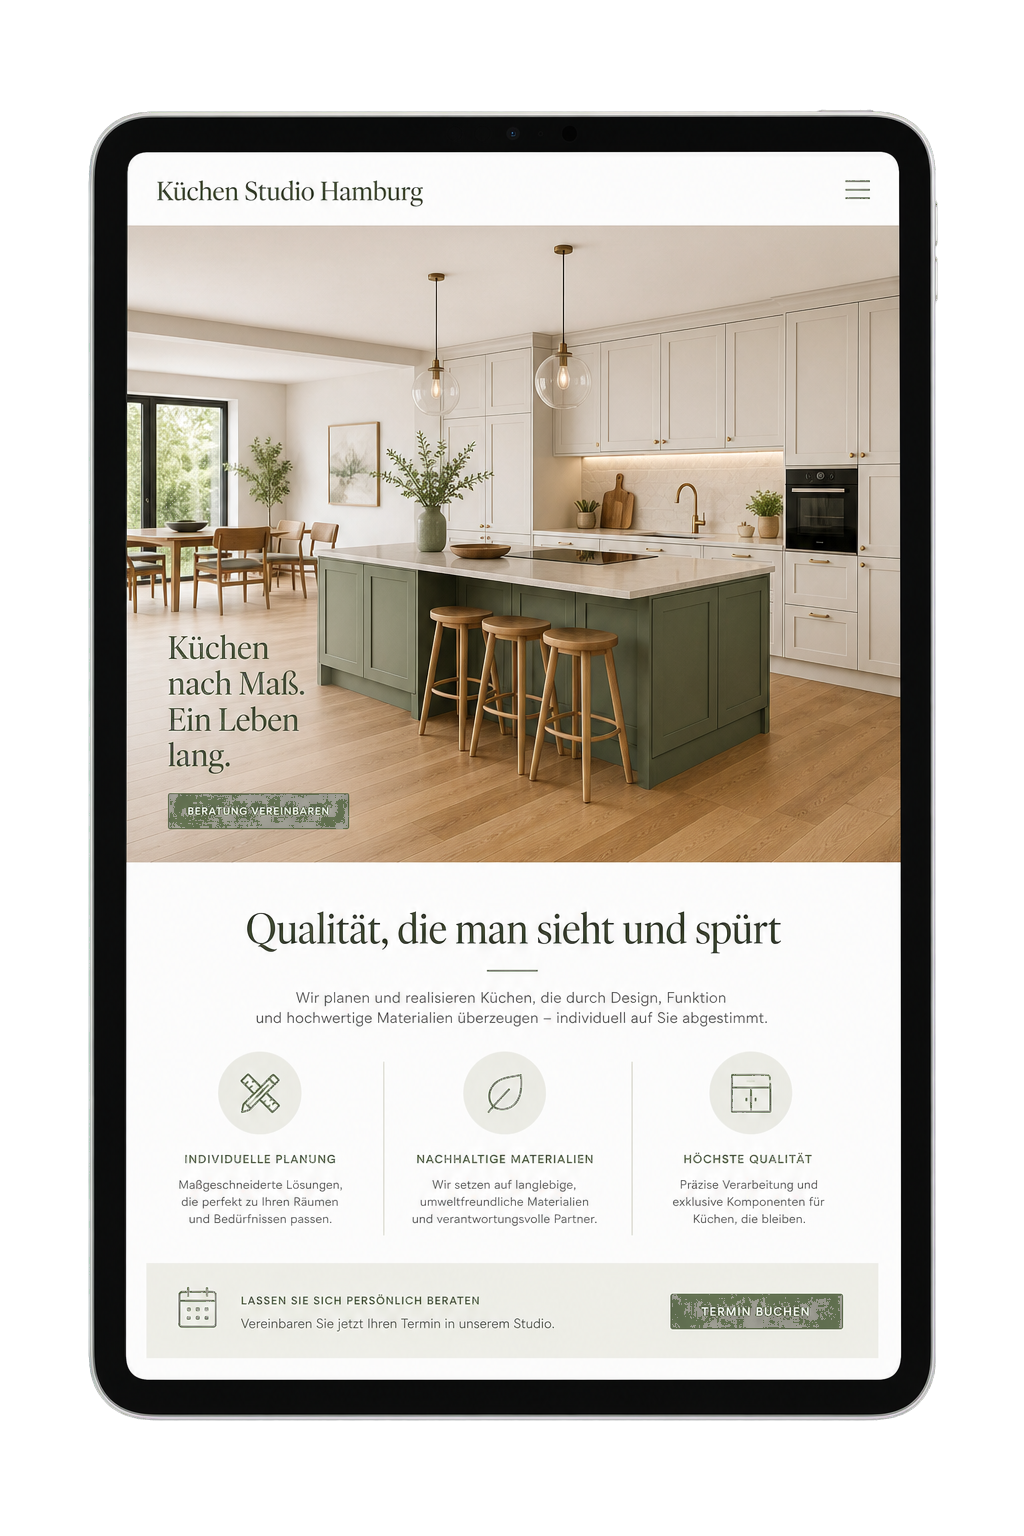
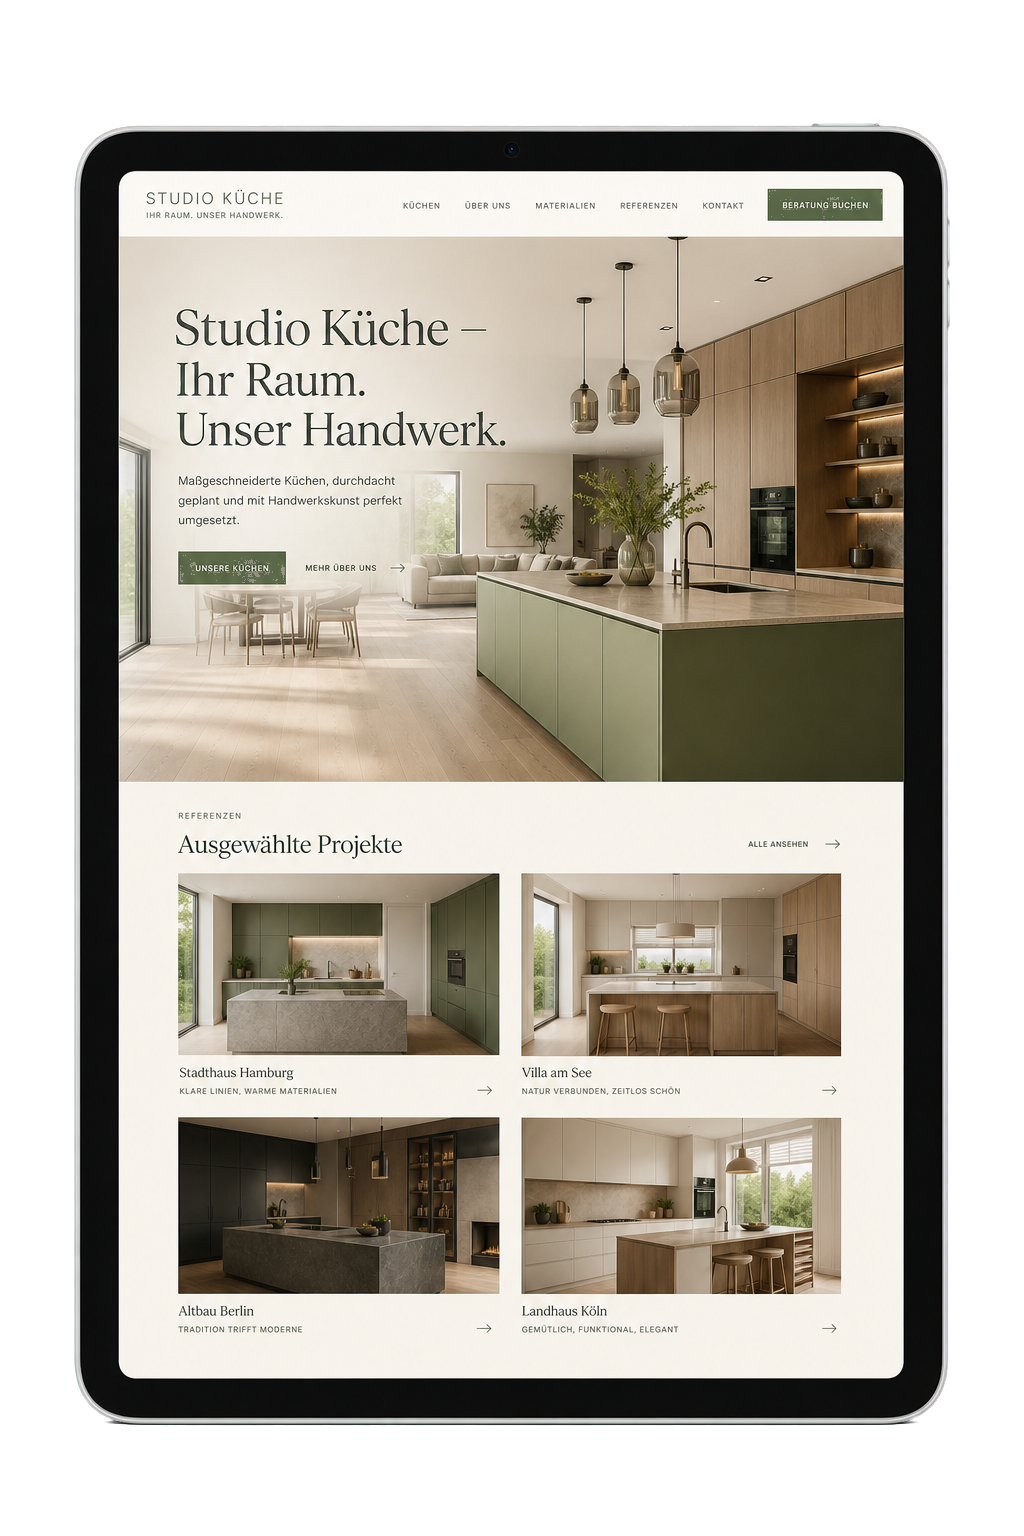
feat: add 3-device hero, team section, testimonials, case slider + new iPad mockups
- Hero: laptop + tablet + phone device layout
- Team: 6 members with Unser Team heading
- Testimonials: updated 4 attribution names/locations
- Beispiele: autoplay 3-slide case slider with benefits
- iPad images: AI-generated with transparent backgrounds (kitchen themes)

diff --git a/index.html b/index.html
@@ -96,6 +96,36 @@
     .sw-team-placeholder{background:#f5ede6;display:block;}
     .sw-team-card strong{font-size:15px;font-weight:700;color:var(--ink);display:block;}
     .sw-team-card span{font-size:13px;color:var(--muted);}
+    /* ===== HERO TABLET DEVICE ===== */
+    .device-tablet{position:absolute;right:-6%;bottom:-10%;width:36%;border:8px solid #16110c;border-radius:20px;background:#16110c;box-shadow:0 30px 54px -22px rgba(40,24,12,.5);z-index:2;}
+    .device-tablet .screen{display:block;width:100%;height:auto;border-radius:12px;}
+    @media(max-width:560px){.device-tablet{right:-4%;width:38%;}}
+    /* ===== CASE SLIDER ===== */
+    .case-slider{position:relative;overflow:hidden;border-radius:24px;background:var(--card);border:1px solid var(--line);}
+    .case-track{display:flex;transition:transform .5s cubic-bezier(.22,1,.36,1);}
+    .case-slide{min-width:100%;display:grid;grid-template-columns:1fr 1fr;gap:48px;align-items:center;padding:48px;}
+    @media(max-width:820px){.case-slide{grid-template-columns:1fr;padding:32px 24px;}}
+    .case-slide-img{position:relative;aspect-ratio:4/3;overflow:visible;}
+    .case-slide-img .device-laptop{max-width:88%;}
+    .case-slide-img .device-phone{left:auto;right:-4%;bottom:-8%;width:28%;}
+    .case-slide-body{display:flex;flex-direction:column;gap:18px;}
+    .case-slide-body h3{font-size:22px;font-weight:700;color:var(--ink);margin:0;}
+    .case-detail{display:flex;gap:14px;align-items:flex-start;}
+    .case-detail-icon{width:40px;height:40px;flex-shrink:0;display:flex;align-items:center;justify-content:center;background:var(--green-soft);border-radius:12px;color:var(--green);}
+    .case-detail-icon svg{width:20px;height:20px;}
+    .case-detail div b{display:block;font-size:14px;font-weight:700;color:var(--ink);margin-bottom:2px;}
+    .case-detail div p{font-size:13.5px;line-height:1.6;color:var(--ink-2);margin:0;}
+    .case-dots{display:flex;justify-content:center;gap:10px;margin-top:32px;}
+    .case-dot{width:10px;height:10px;border-radius:50%;background:var(--line);border:none;cursor:pointer;transition:background .3s,transform .3s;padding:0;}
+    .case-dot.active{background:var(--green);transform:scale(1.25);}
+    .case-benefits{display:grid;grid-template-columns:repeat(3,1fr);gap:20px;margin-top:36px;}
+    @media(max-width:680px){.case-benefits{grid-template-columns:1fr;}}
+    .case-benefit{display:flex;align-items:flex-start;gap:14px;padding:20px;background:var(--card);border:1px solid var(--line);border-radius:16px;}
+    .case-benefit-icon{width:44px;height:44px;flex-shrink:0;display:flex;align-items:center;justify-content:center;background:var(--green-soft);border-radius:12px;color:var(--green);}
+    .case-benefit-icon svg{width:22px;height:22px;}
+    .case-benefit div h4{font-size:15px;font-weight:700;color:var(--ink);margin:0 0 4px;}
+    .case-benefit div p{font-size:13px;color:var(--muted);margin:0;line-height:1.5;}
+    .case-note{text-align:center;font-size:13px;color:var(--muted);margin-top:24px;font-style:italic;}
 </style>
   <meta name="robots" content="index, follow, max-image-preview:large, max-snippet:-1, max-video-preview:-1" />
   <script type="application/ld+json">
@@ -255,6 +285,7 @@
             <div class="mockup-wrap">
               <div class="mockup" aria-label="Beispiel einer Küchenstudio-Website">
                 <div class="device-laptop"><img class="screen" src="assets/shot-laptop.png" alt="Beispiel Küchenstudio-Website auf dem Laptop" width="1600" height="1000" loading="lazy" decoding="async" /></div>
+                <div class="device-tablet"><img class="screen" src="assets/shot-laptop.png" alt="Beispiel Küchenstudio-Website auf dem Tablet" width="1600" height="1000" loading="lazy" decoding="async" /></div>
                 <div class="device-phone"><img class="screen" src="assets/shot-phone.png" alt="Beispiel Küchenstudio-Website auf dem Smartphone" width="430" height="932" loading="lazy" decoding="async" /></div>
               </div>
             </div>
@@ -454,47 +485,131 @@
       </div>
     </section>
 
-    <!-- ============ CASE / BEISPIEL ============ -->
+    <!-- ============ CASE / BEISPIEL (SLIDER) ============ -->
     <section class="section white-bg" id="beispiel" data-screen-label="07 Beispiel">
       <div class="container">
         <div class="section-head">
-          <span class="eyebrow reveal">Beispiele</span>
-          <h2 class="h-section reveal d1">Wie eine starke Website Küchenstudios unterstützt</h2>
+          <span class="eyebrow reveal">Fiktives Beispiel</span>
+          <h2 class="h-section reveal d1">Wie eine moderne Website Küchenstudios unterstützt</h2>
+          <p class="lead reveal d2">Praxisnahes Konzeptbeispiel &#8212; mit klarer Positionierung, schöner Website und realistischer Struktur.</p>
         </div>
 
-        <div class="case-card reveal d2">
-          <div class="case-head">
-            <div>
-              <span class="case-tag">Beispiel · Mittleres bis gehobenes Segment</span>
-              <h3>Küchenstudio mit Schwerpunkt hochwertige Einbauküchen</h3>
-              <div class="case-row">
-                <p><b>Ausgangssituation:</b> Website seit mehreren Jahren unverändert, kaum Struktur — starke Referenzen wurden online kaum gezeigt.</p>
-                <p><b>Ziel:</b> Moderner Auftritt, klare Darstellung von Marken, Referenzen und Services sowie Entlastung des Teams bei Standardfragen.</p>
+        <div class="case-slider reveal d2" id="caseSlider">
+          <div class="case-track" id="caseTrack">
+
+            <!-- Slide 1: Moderne Küche -->
+            <div class="case-slide">
+              <div class="case-slide-img">
+                <div class="device-laptop"><img class="screen" src="assets/shot-laptop.png" alt="Moderne Küche Website" width="1600" height="1000" loading="lazy" decoding="async" /></div>
+                <div class="device-phone"><img class="screen" src="assets/shot-phone.png" alt="Moderne Küche mobil" width="430" height="932" loading="lazy" decoding="async" /></div>
+              </div>
+              <div class="case-slide-body">
+                <h3>Moderne Einbauküchen</h3>
+                <div class="case-detail">
+                  <div class="case-detail-icon"><svg viewBox="0 0 24 24" fill="none" stroke="currentColor" stroke-width="2" stroke-linecap="round" stroke-linejoin="round"><circle cx="11" cy="11" r="8"/><path d="m21 21-4.3-4.3"/></svg></div>
+                  <div><b>Ausgangssituation:</b><p>Die bisherige Website wirkte veraltet, hochwertige Referenzen und Markenpartner wurden online kaum gezeigt.</p></div>
+                </div>
+                <div class="case-detail">
+                  <div class="case-detail-icon"><svg viewBox="0 0 24 24" fill="none" stroke="currentColor" stroke-width="2" stroke-linecap="round" stroke-linejoin="round"><circle cx="12" cy="12" r="10"/><circle cx="12" cy="12" r="6"/><circle cx="12" cy="12" r="2"/></svg></div>
+                  <div><b>Ziel:</b><p>Ein moderner Auftritt, der Qualität und Beratungskompetenz auf den ersten Blick vermittelt.</p></div>
+                </div>
+                <div class="case-detail">
+                  <div class="case-detail-icon"><svg viewBox="0 0 24 24" fill="none" stroke="currentColor" stroke-width="2" stroke-linecap="round" stroke-linejoin="round"><rect x="3" y="3" width="18" height="18" rx="2"/><path d="M3 9h18"/><path d="M9 21V9"/></svg></div>
+                  <div><b>Umsetzung:</b><p>Neue Startseite mit klarem Einstieg, Unterseiten für Marken und Stilwelten, strukturierte Infos zu Beratung, Planung und Montage.</p></div>
+                </div>
+                <div class="case-detail">
+                  <div class="case-detail-icon"><svg viewBox="0 0 24 24" fill="none" stroke="currentColor" stroke-width="2" stroke-linecap="round" stroke-linejoin="round"><path d="M22 11.08V12a10 10 0 1 1-5.93-9.14"/><polyline points="22 4 12 14.01 9 11.01"/></svg></div>
+                  <div><b>Ergebnis:</b><p>Deutlich professionellerer Außenauftritt, mehr passende Anfragen mit realistischem Budget und weniger Rückfragen.</p></div>
+                </div>
+                <a href="#kontakt" class="btn" style="align-self:flex-start;margin-top:8px;"><span class="btn-label">Erstgespräch sichern</span>
+                  <svg viewBox="0 0 24 24" fill="none" stroke="currentColor" stroke-width="2.2" stroke-linecap="round" stroke-linejoin="round"><path d="M5 12h14M13 5l7 7-7 7"></path></svg>
+                </a>
               </div>
             </div>
-            <div class="case-row">
-              <p><b>Umsetzung mit Seitenwerk.de:</b> Neue Startseite mit klarem Einstieg, Unterseiten für Marken und Stilwelten, strukturierte Infos zu Beratung, Planung, Montage und Service.</p>
-              <p><b>Ergebnis:</b> Deutlich professionellerer Außenauftritt, mehr passende Anfragen mit realistischem Budget und weniger Rückfragen am Telefon.</p>
-              <a href="#kontakt" class="btn mt-cta"><span class="btn-label">Erstgespräch sichern</span>
-                <svg viewBox="0 0 24 24" fill="none" stroke="currentColor" stroke-width="2.2" stroke-linecap="round" stroke-linejoin="round"><path d="M5 12h14M13 5l7 7-7 7"></path></svg>
-              </a>
+
+            <!-- Slide 2: Landhausküche -->
+            <div class="case-slide">
+              <div class="case-slide-img">
+                <div class="device-laptop"><img class="screen" src="assets/shot-laptop.png" alt="Landhausküche Website" width="1600" height="1000" loading="lazy" decoding="async" /></div>
+                <div class="device-phone"><img class="screen" src="assets/shot-phone.png" alt="Landhausküche mobil" width="430" height="932" loading="lazy" decoding="async" /></div>
+              </div>
+              <div class="case-slide-body">
+                <h3>Landhausküchen &amp; Klassik</h3>
+                <div class="case-detail">
+                  <div class="case-detail-icon"><svg viewBox="0 0 24 24" fill="none" stroke="currentColor" stroke-width="2" stroke-linecap="round" stroke-linejoin="round"><circle cx="11" cy="11" r="8"/><path d="m21 21-4.3-4.3"/></svg></div>
+                  <div><b>Ausgangssituation:</b><p>Der Landhaus-Stil war online nicht erkennbar — die Website passte nicht zur Atmosphäre des Showrooms.</p></div>
+                </div>
+                <div class="case-detail">
+                  <div class="case-detail-icon"><svg viewBox="0 0 24 24" fill="none" stroke="currentColor" stroke-width="2" stroke-linecap="round" stroke-linejoin="round"><circle cx="12" cy="12" r="10"/><circle cx="12" cy="12" r="6"/><circle cx="12" cy="12" r="2"/></svg></div>
+                  <div><b>Ziel:</b><p>Eine Website, die die warme Landhaus-Atmosphäre transportiert und Kunden mit passendem Geschmack anspricht.</p></div>
+                </div>
+                <div class="case-detail">
+                  <div class="case-detail-icon"><svg viewBox="0 0 24 24" fill="none" stroke="currentColor" stroke-width="2" stroke-linecap="round" stroke-linejoin="round"><rect x="3" y="3" width="18" height="18" rx="2"/><path d="M3 9h18"/><path d="M9 21V9"/></svg></div>
+                  <div><b>Umsetzung:</b><p>Bildstarke Startseite mit Showroom-Galerie, Materialwelten-Seite, persönliche Beratungsgeschichte und Anfahrtsinfos.</p></div>
+                </div>
+                <div class="case-detail">
+                  <div class="case-detail-icon"><svg viewBox="0 0 24 24" fill="none" stroke="currentColor" stroke-width="2" stroke-linecap="round" stroke-linejoin="round"><path d="M22 11.08V12a10 10 0 1 1-5.93-9.14"/><polyline points="22 4 12 14.01 9 11.01"/></svg></div>
+                  <div><b>Ergebnis:</b><p>Mehr qualifizierte Beratungstermine, bessere Vorab-Information und spürbar weniger Standardfragen.</p></div>
+                </div>
+                <a href="#kontakt" class="btn" style="align-self:flex-start;margin-top:8px;"><span class="btn-label">Erstgespräch sichern</span>
+                  <svg viewBox="0 0 24 24" fill="none" stroke="currentColor" stroke-width="2.2" stroke-linecap="round" stroke-linejoin="round"><path d="M5 12h14M13 5l7 7-7 7"></path></svg>
+                </a>
+              </div>
             </div>
+
+            <!-- Slide 3: Luxusküche -->
+            <div class="case-slide">
+              <div class="case-slide-img">
+                <div class="device-laptop"><img class="screen" src="assets/shot-laptop.png" alt="Luxusküche Website" width="1600" height="1000" loading="lazy" decoding="async" /></div>
+                <div class="device-phone"><img class="screen" src="assets/shot-phone.png" alt="Luxusküche mobil" width="430" height="932" loading="lazy" decoding="async" /></div>
+              </div>
+              <div class="case-slide-body">
+                <h3>Luxusküchen &amp; Premium-Segment</h3>
+                <div class="case-detail">
+                  <div class="case-detail-icon"><svg viewBox="0 0 24 24" fill="none" stroke="currentColor" stroke-width="2" stroke-linecap="round" stroke-linejoin="round"><circle cx="11" cy="11" r="8"/><path d="m21 21-4.3-4.3"/></svg></div>
+                  <div><b>Ausgangssituation:</b><p>Das Premium-Segment war online nicht sichtbar — die Website sprach alle Kunden gleich an, statt gezielt Premium-Käufer.</p></div>
+                </div>
+                <div class="case-detail">
+                  <div class="case-detail-icon"><svg viewBox="0 0 24 24" fill="none" stroke="currentColor" stroke-width="2" stroke-linecap="round" stroke-linejoin="round"><circle cx="12" cy="12" r="10"/><circle cx="12" cy="12" r="6"/><circle cx="12" cy="12" r="2"/></svg></div>
+                  <div><b>Ziel:</b><p>Exklusive Positionierung im Luxus-Segment mit visuellem Anspruch und gezielter Ansprache anspruchsvoller Kunden.</p></div>
+                </div>
+                <div class="case-detail">
+                  <div class="case-detail-icon"><svg viewBox="0 0 24 24" fill="none" stroke="currentColor" stroke-width="2" stroke-linecap="round" stroke-linejoin="round"><rect x="3" y="3" width="18" height="18" rx="2"/><path d="M3 9h18"/><path d="M9 21V9"/></svg></div>
+                  <div><b>Umsetzung:</b><p>Editorial Design mit großformatigen Küchen-Fotografien, Marken-Showroom-Seite, virtuelle Beratungsanfrage.</p></div>
+                </div>
+                <div class="case-detail">
+                  <div class="case-detail-icon"><svg viewBox="0 0 24 24" fill="none" stroke="currentColor" stroke-width="2" stroke-linecap="round" stroke-linejoin="round"><path d="M22 11.08V12a10 10 0 1 1-5.93-9.14"/><polyline points="22 4 12 14.01 9 11.01"/></svg></div>
+                  <div><b>Ergebnis:</b><p>Höherer durchschnittlicher Projektwert, weniger Preisverhandlungen und stärkere Markenwahrnehmung online.</p></div>
+                </div>
+                <a href="#kontakt" class="btn" style="align-self:flex-start;margin-top:8px;"><span class="btn-label">Erstgespräch sichern</span>
+                  <svg viewBox="0 0 24 24" fill="none" stroke="currentColor" stroke-width="2.2" stroke-linecap="round" stroke-linejoin="round"><path d="M5 12h14M13 5l7 7-7 7"></path></svg>
+                </a>
+              </div>
+            </div>
+
           </div>
-          <div class="case-stats">
-            <div class="case-stat">
-              <div class="case-stat-v">+58%</div>
-              <div class="case-stat-l">Passende Anfragen</div>
-            </div>
-            <div class="case-stat">
-              <div class="case-stat-v">−35%</div>
-              <div class="case-stat-l">Telefon-Rückfragen</div>
-            </div>
-            <div class="case-stat">
-              <div class="case-stat-v">4,9★</div>
-              <div class="case-stat-l">Kundenbewertung</div>
-            </div>
+          <div class="case-dots" id="caseDots">
+            <button class="case-dot active" aria-label="Slide 1"></button>
+            <button class="case-dot" aria-label="Slide 2"></button>
+            <button class="case-dot" aria-label="Slide 3"></button>
           </div>
         </div>
+
+        <div class="case-benefits reveal d3">
+          <div class="case-benefit">
+            <div class="case-benefit-icon"><svg viewBox="0 0 24 24" fill="none" stroke="currentColor" stroke-width="2" stroke-linecap="round" stroke-linejoin="round"><circle cx="12" cy="12" r="10"/><circle cx="12" cy="12" r="6"/><circle cx="12" cy="12" r="2"/></svg></div>
+            <div><h4>Klarere Positionierung</h4><p>Ihr Sortiment, Ihre Marken und Stilwelten sind auf den ersten Blick verständlich.</p></div>
+          </div>
+          <div class="case-benefit">
+            <div class="case-benefit-icon"><svg viewBox="0 0 24 24" fill="none" stroke="currentColor" stroke-width="2" stroke-linecap="round" stroke-linejoin="round"><path d="M21 15a2 2 0 0 1-2 2H7l-4 4V5a2 2 0 0 1 2-2h14a2 2 0 0 1 2 2z"/></svg></div>
+            <div><h4>Weniger Standardfragen</h4><p>Kunden finden Antworten bereits online — das entlastet Ihr Team spürbar.</p></div>
+          </div>
+          <div class="case-benefit">
+            <div class="case-benefit-icon"><svg viewBox="0 0 24 24" fill="none" stroke="currentColor" stroke-width="2" stroke-linecap="round" stroke-linejoin="round"><path d="M22 11.08V12a10 10 0 1 1-5.93-9.14"/><polyline points="22 4 12 14.01 9 11.01"/></svg></div>
+            <div><h4>Professioneller Außenauftritt</h4><p>Ein moderner Webauftritt stärkt Vertrauen und Ihr Studio als Marke.</p></div>
+          </div>
+        </div>
+        <p class="case-note reveal d4">Konzeptionelles Mockup &#8212; keine reale Kundenreferenz.</p>
       </div>
     </section>
 
@@ -579,6 +694,9 @@
     <!-- ============ TEAM ============ -->
     <section class="section" id="team" style="padding-top:0;padding-bottom:56px;" data-screen-label="08c Team">
       <div class="container">
+        <div class="section-head" style="margin-bottom:36px;">
+          <h2 class="h-section reveal d1">Unser Team</h2>
+        </div>
         <div class="sw-team-grid">
           <div class="sw-team-card">
             <img src="assets/founder.png" alt="Thomas Stübinger" width="160" height="160" loading="lazy" decoding="async" class="sw-team-photo" />
@@ -588,12 +706,27 @@
           <div class="sw-team-card">
             <img src="https://cdn.prod.website-files.com/649413ec23c5269e2fb03294/658183b74d341b8e9974a1a5_Marco%20Niedermeier.png" alt="Marco Niedermeier" width="160" height="160" loading="lazy" decoding="async" class="sw-team-photo" />
             <strong>Marco Niedermeier</strong>
-            <span>Account Manager</span>
+            <span>Consultant</span>
           </div>
           <div class="sw-team-card">
             <div class="sw-team-photo sw-team-placeholder"></div>
             <strong>Hoa</strong>
-            <span>[Rolle]</span>
+            <span>Consultant</span>
+          </div>
+          <div class="sw-team-card">
+            <div class="sw-team-photo sw-team-placeholder"></div>
+            <strong>John</strong>
+            <span>Developer</span>
+          </div>
+          <div class="sw-team-card">
+            <div class="sw-team-photo sw-team-placeholder"></div>
+            <strong>Manuel</strong>
+            <span>Developer</span>
+          </div>
+          <div class="sw-team-card">
+            <div class="sw-team-photo sw-team-placeholder"></div>
+            <strong>Anna</strong>
+            <span>Designer</span>
           </div>
         </div>
       </div>
@@ -612,7 +745,7 @@
             <blockquote class="testi-quote">&#8222;Unsere Buchungsanfragen haben sich nach dem Relaunch verdoppelt. Thomas hat unsere Marke und unser Sortiment sofort verstanden und etwas gebaut, das wirklich verkauft.&#8220;</blockquote>
                         <div class="testi-person">
               <div style="width:46px;height:46px;border-radius:50%;background:var(--line);flex-shrink:0;"></div>
-              <div><strong>Küchenstudio</strong><span>München</span></div>
+              <div><strong>Küchenstudio-Inhaber</strong><span>München</span></div>
             </div>
           </article>
           <article class="testi-card reveal d2">
@@ -620,7 +753,7 @@
             <blockquote class="testi-quote">&#8222;Die Website bringt uns jetzt genau die Kunden, die wir uns w&#252;nschen &#8212; mit realistischem Budget und echtem Interesse. Das war vorher nie so.&#8220;</blockquote>
                         <div class="testi-person">
               <div style="width:46px;height:46px;border-radius:50%;background:var(--line);flex-shrink:0;"></div>
-              <div><strong>Küchendesign</strong><span>Hamburg</span></div>
+              <div><strong>Küchenplanung</strong><span>Süddeutschland</span></div>
             </div>
           </article>
           <article class="testi-card reveal d3">
@@ -628,7 +761,7 @@
             <blockquote class="testi-quote">&#8222;Professioneller geht nicht. Thomas hat unseren Stil sofort verstanden. Das Ergebnis ist ein Design, das zu uns passt und bei Kunden wirklich ankommt.&#8220;</blockquote>
                         <div class="testi-person">
               <div style="width:46px;height:46px;border-radius:50%;background:var(--line);flex-shrink:0;"></div>
-              <div><strong>Studio</strong><span>Nürnberg</span></div>
+              <div><strong>Einbauküchen-Studio</strong><span>Niedersachsen</span></div>
             </div>
           </article>
           <article class="testi-card reveal d4">
@@ -636,7 +769,7 @@
             <blockquote class="testi-quote">&#8222;Schnell, unkompliziert, top Ergebnis. Die Website l&#228;dt blitzschnell &#8212; auch auf dem Handy. Und die neuen Anfragen sind merklich besser geworden.&#8220;</blockquote>
                         <div class="testi-person">
               <div style="width:46px;height:46px;border-radius:50%;background:var(--line);flex-shrink:0;"></div>
-              <div><strong>Küchenstudio</strong><span>Nienburg</span></div>
+              <div><strong>Küchenhaus</strong><span>Großraum Hamburg</span></div>
             </div>
           </article>
         </div>
@@ -778,6 +911,21 @@
     const revs = [...document.querySelectorAll('.reveal')];
     revs.forEach(el => io.observe(el));
     requestAnimationFrame(() => { revs.forEach(el => { if (el.getBoundingClientRect().top < innerHeight * 0.95) el.classList.add('in'); }); });
+
+    // Case slider autoplay
+    const caseTrack = document.getElementById('caseTrack');
+    const caseDots = document.querySelectorAll('.case-dot');
+    if (caseTrack && caseDots.length) {
+      let cur = 0;
+      const total = caseDots.length;
+      function goSlide(i) {
+        cur = ((i % total) + total) % total;
+        caseTrack.style.transform = 'translateX(-' + (cur * 100) + '%)';
+        caseDots.forEach((d, idx) => d.classList.toggle('active', idx === cur));
+      }
+      caseDots.forEach((d, i) => d.addEventListener('click', () => { goSlide(i); clearInterval(autoId); autoId = setInterval(() => goSlide(cur + 1), 5000); }));
+      let autoId = setInterval(() => goSlide(cur + 1), 5000);
+    }
 
     // FAQ single-open
     const items = document.querySelectorAll('.faq-item');
